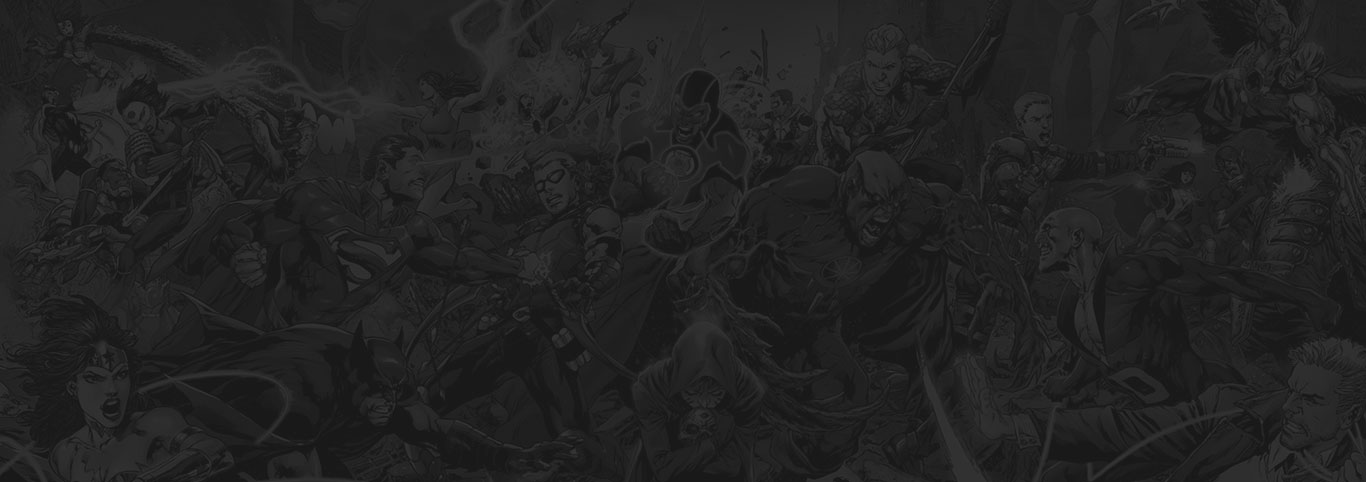
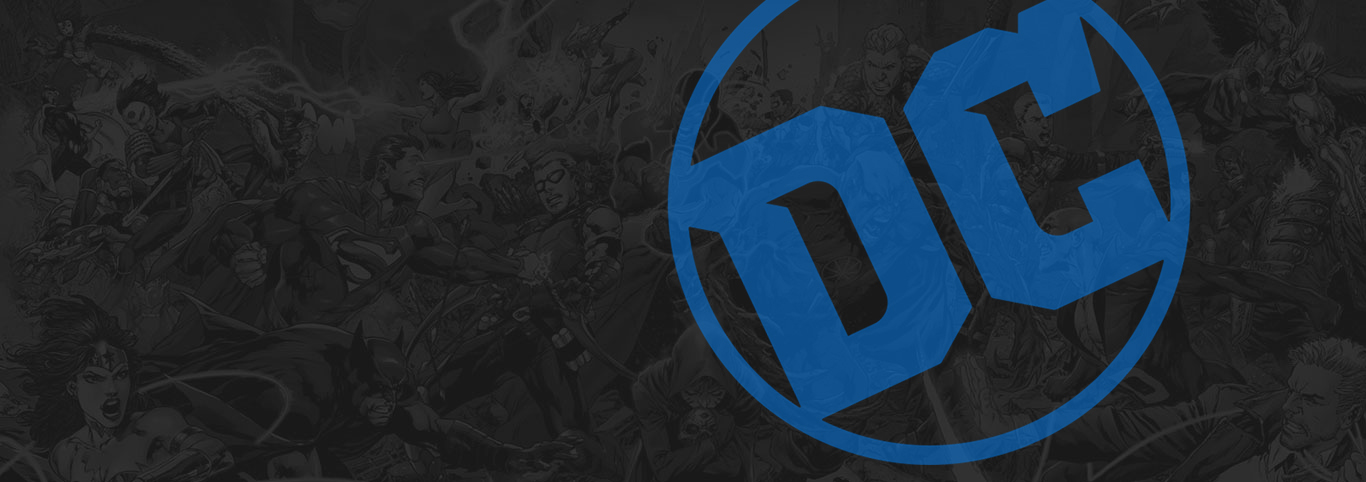
add comic page

Changed region(s): [[0.4919, 0.0, 0.8917, 0.9647]]

diff --git a/public/css/app.css b/public/css/app.css
@@ -1,74 +1,81 @@
-*{  
+* {
     margin: 0;
     padding: 0;
     box-sizing: border-box;
     font-family: 'Noto Sans JP', sans-serif;
 }
 
-.center-block{
+.center-block {
     width: 75%;
     margin: auto;
 }
 
-.logo{
-    margin-right: 50px;
+.logo {
+    margin-right: 40px;
 }
 
-nav ul,.head-credits ul{
+.logo img {
+    width: 80%;
+}
+
+nav ul,
+.head-credits ul {
     display: flex;
     flex-direction: row;
-    align-items: flex-end;
+    align-items: center;
 }
 
-nav ul li, .head-credits ul li {
+nav ul li,
+.head-credits ul li {
     margin: 10px;
     list-style: none;
 }
 
-nav ul li a,.head-credits ul li a{
+nav ul li a,
+.head-credits ul li a {
     text-decoration: none;
 }
 
-.head-credits{
+.head-credits {
     justify-self: end;
     background-color: #0282f9;
 }
 
-.head-credits li a{
+.head-credits li a {
     font-size: 12px;
     color: #ffffff;
 }
 
-.spacing{
+.spacing {
     width: 70%;
 }
 
-nav ul{
-    justify-content: space-between;  
+nav ul {
+    justify-content: space-between;
 }
 
 nav li {
-    padding-top: 30px;
-}
-
-nav li a:hover{
-    color: #0282f9;
-    border-bottom: 5px solid #0282f9;
-    transition: 0.3s;
+    padding-top: 10px;
 }
 
 nav li a {
     color: #252525;
     font-weight: 600;
     font-size: 14px;
-    padding-bottom: 40px;
+    padding-bottom: 52px;
 }
 
-#shop{
+nav li a:hover {
+    color: #0282f9;
+    border-bottom: 5px solid #0282f9;
+    transition: 0.3s;
+}
+
+#shop {
     position: relative;
 }
 
-.dropdown{
+.dropdown {
     position: absolute;
     padding: 5px;
     background-color: lightgrey;
@@ -78,7 +85,7 @@ nav li a {
     opacity: 0;
 }
 
-.dropdown:hover{
+.dropdown:hover {
     opacity: 1;
 }
 
@@ -86,39 +93,43 @@ nav li a {
     margin-bottom: 5px;
 }
 
-.search{
+.search {
     margin-left: 40px;
 }
 
-.search i:hover{
+.search i:hover {
     color: #0282f9;
 }
 
-input{
+input {
     width: 60%;
     border: none;
     border-bottom: 2px solid #0282f9;
 }
 
-.hero{
-   background-color: #904894;
-   padding: 160px;
-   margin-top: 35px;
+.hero {
+    background-image: url('/images/jumbotron.jpg');
+    background-repeat: no-repeat;
+    background-size: 100%;
+    padding: 200px;
+    margin-top: 15px;
 }
 
-footer .top{
-    background-color: #1c1c1c;
+footer .top {
+    background-image: url('/images/footer-bg.jpg');
+    background-repeat: no-repeat;
+    background-size: 100%;
     padding: 30px 0;
 }
 
-.top .center-block{
+.top .center-block {
     display: flex;
     flex-direction: row;
 }
 
-.top ul{
+.top ul {
     list-style: none;
-    margin:0 50px 30px 0 ;
+    margin: 0 50px 30px 0;
 }
 
 .top h3 {
@@ -126,31 +137,32 @@ footer .top{
     margin-bottom: 15px;
 }
 
-.top li a{
+.top li a {
     text-decoration: none;
     color: grey;
     font-size: 11px;
 }
 
-.top li a:hover{
-    color:#0282f9;
+.top li a:hover {
+    color: #0282f9;
     transition: 0.1s;
 }
 
-.copyright p, .copyright i{
+.copyright p,
+.copyright i {
     color: grey;
     font-size: 11px;
 }
 
-.copyright span{
+.copyright span {
     color: #0282f9;
 }
 
-.dc-footer{
+.dc-footer {
     margin-left: 50px;
 }
 
-footer .bottom{
+footer .bottom {
     background-color: #252525;
     padding: 30px 0;
 }
@@ -159,6 +171,7 @@ footer .bottom{
     display: flex;
     flex-direction: row;
     justify-content: space-between;
+    align-items: center;
 }
 
 .bottom button {
@@ -168,7 +181,7 @@ footer .bottom{
     color: white;
 }
 
-.bottom button:hover{
+.bottom button:hover {
     background-color: #0282f9;
     transition: 0.3s;
 }
@@ -176,7 +189,7 @@ footer .bottom{
 .footer-icons {
     display: flex;
     flex-direction: row;
-    margin-top: 15px;
+    justify-content: space-between;
 }
 
 .footer-icons h3 {
@@ -184,15 +197,15 @@ footer .bottom{
     margin-right: 20px;
 }
 
-.comics-container{
+.comics-container {
     position: relative;
     background-color: #121212;
     color: white;
-    padding: 60px 0 20px 0;
+    padding: 60px 0 20px;
 }
 
-.comics-list{
-    
+.comics-list {
+
     display: flex;
     flex-direction: row;
     justify-content: space-between;
@@ -201,7 +214,7 @@ footer .bottom{
     flex-grow: 1;
 }
 
-.card{
+.card {
     width: 15%;
     margin-bottom: 60px;
 }
@@ -211,7 +224,7 @@ footer .bottom{
     max-height: 200px;
 }
 
-.series{
+.series {
     position: absolute;
     top: -25px;
     width: 16%;
@@ -221,34 +234,35 @@ footer .bottom{
     border: 1px solid #121212;
 }
 
-.load{
-    display:flex;
+.load {
+    display: flex;
     justify-content: center;
 }
 
-.load button{
+.load button {
     padding: 5px 35px;
     color: white;
     background-color: #0282f9;
 }
 
-.load button:hover{
+.load button:hover {
     background-color: #164a7b;
     transition: 0.2s;
 }
 
-.main-icons{
+.main-icons {
     background-color: #0282f9;
 }
 
-.main-icons .center-block{
+.main-icons .center-block {
     display: flex;
     flex-direction: row;
     justify-content: space-between;
+    align-items: center;
     padding: 60px 0;
     color: white;
 }
 
-
-
-
+.main-icons img {
+    width: 5%;
+}

diff --git a/resources/views/partials/footer.blade.php b/resources/views/partials/footer.blade.php
@@ -4,7 +4,9 @@
 
             <div class="col-1">
                 <ul>
-                    <li><h3>DC COMICS</h3></li>
+                    <li>
+                        <h3>DC COMICS</h3>
+                    </li>
 
                     <li><a href="">Characters</a></li>
 
@@ -23,7 +25,9 @@
 
                 <ul>
 
-                    <li><h3>SHOP</h3></li>
+                    <li>
+                        <h3>SHOP</h3>
+                    </li>
 
                     <li><a href="">Shop DC</a></li>
 
@@ -34,7 +38,9 @@
 
             <div class="col-2">
                 <ul>
-                    <li><h3>DC</h3></li>
+                    <li>
+                        <h3>DC</h3>
+                    </li>
 
                     <li><a href="">Term of Use</a></li>
 
@@ -63,7 +69,9 @@
 
             <div class="col-3">
                 <ul>
-                    <li><h3>SITES</h3></li>
+                    <li>
+                        <h3>SITES</h3>
+                    </li>
 
                     <li><a href="">DC</a></li>
 
@@ -83,11 +91,8 @@
             <div class="copyright">
                 <p>All Site Content TM and <i class="fa fa-copyright"></i> 2020 DC Entertainment, unless otherwise <a href=""><span>noted here</span></a>. All rights reserved. <br> <a href=""><span>Cookies Settings</span></p></a>
             </div>
-
-            <div class="dc-footer">
-                <img src="{{asset('images/dc-logo-bg.png')}}" alt="dc-logo">
-            </div>
         </div>
+
     </section>
 
     <section class="bottom">

diff --git a/resources/views/partials/header.blade.php b/resources/views/partials/header.blade.php
@@ -15,8 +15,9 @@
                 <li>
                     <div class="logo">
                         <a href="{{ url('/')}}">
-
-                            <img src="{{asset('images/dc-logo.png')}}" alt="dc-logo">
+                            <div class="logo">
+                                <img src="{{asset('images/dc-logo.png')}}" alt="dc-logo">
+                            </div>
                         </a>
                     </div>
                 </li>
@@ -75,9 +76,8 @@
 </header>
 
 <div class="hero">
-    <img src="{{asset('images/jumbotron.jpg')}}" alt="jumbotron-img">
+    
 </div>
-
 
 </body>
 </html>
